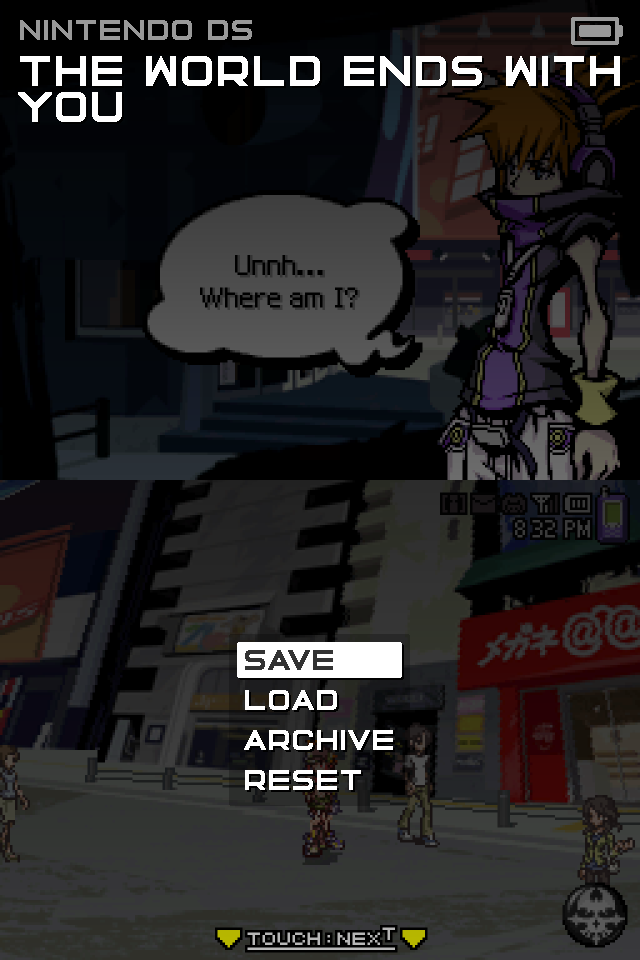
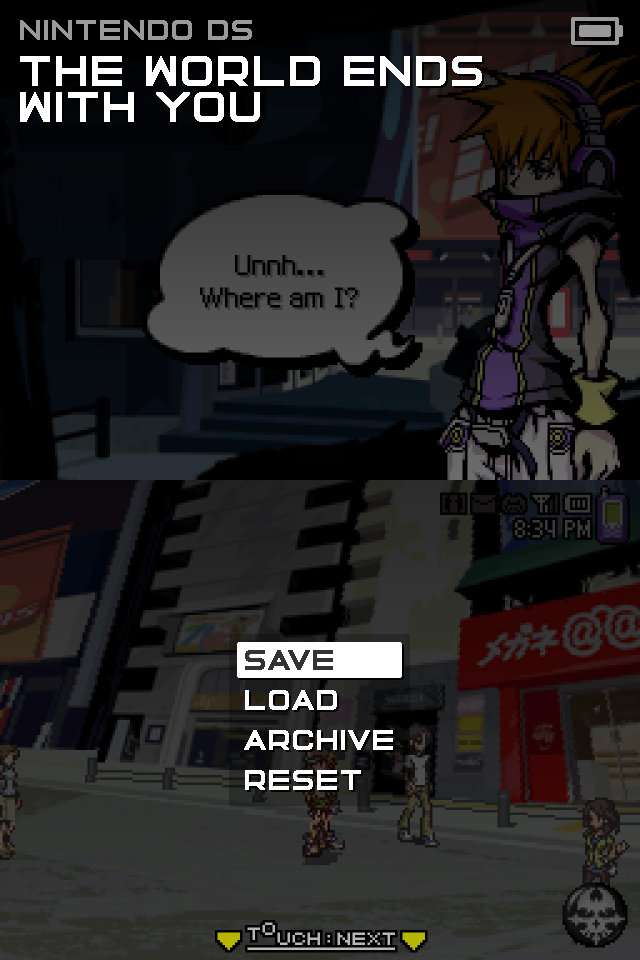
revised W

diff --git a/source/libhookdrastic/libhookdrastic.c b/source/libhookdrastic/libhookdrastic.c
@@ -801,7 +801,7 @@ Font* font36 = &(Font){
 	.charset = "ABCDEFGHIJKLMNOPQRSTUVWXYZ.-'!?&0123456789/$+%,: ",
 	.tile_width = 36,
 	.tile_height = 36,
-	.offset_x = -2,
+	.offset_x = -3,
 	.tracking = 6,
 	.char_width = 30,
 	.low_width = 24,
@@ -822,6 +822,8 @@ Font* font36 = &(Font){
 		['T']['A'] = -6,
 		['A']['V'] = -6,
 		['V']['A'] = -6,
+		['A']['W'] = -3,
+		['W']['A'] = -3,
 		['A']['Y'] = -6,
 		['Y']['A'] = -6,
 		['T']['-'] = -6,
@@ -834,7 +836,7 @@ Font* font24 = &(Font){
 	.charset = "ABCDEFGHIJKLMNOPQRSTUVWXYZ.-'!?&0123456789/$+%,: ",
 	.tile_width = 24,
 	.tile_height = 24,
-	.offset_x = -1,
+	.offset_x = -2,
 	.tracking = 4,
 	.char_width = 20,
 	.char_widths = {
@@ -854,6 +856,8 @@ Font* font24 = &(Font){
 		['T']['A'] = -4,
 		['A']['V'] = -4,
 		['V']['A'] = -4,
+		['A']['W'] = -2,
+		['W']['A'] = -2,
 		['T']['-'] = -4,
 		['-']['T'] = -4,
 	},
@@ -864,6 +868,7 @@ Font* font18 = &(Font){
 	.charset = "ABCDEFGHIJKLMNOPQRSTUVWXYZ.-'!?&0123456789/$+%,: ",
 	.tile_width = 18,
 	.tile_height = 18,
+	.offset_x = -1,
 	.tracking = 3,
 	.char_width = 15,
 	.char_widths = {
@@ -882,6 +887,8 @@ Font* font18 = &(Font){
 		['T']['A'] = -3,
 		['A']['V'] = -3,
 		['V']['A'] = -3,
+		['A']['W'] = -1,
+		['W']['A'] = -1,
 		['T']['-'] = -3,
 		['-']['T'] = -3,
 	},
@@ -892,6 +899,7 @@ Font* font16 = &(Font){
 	.charset = "ABCDEFGHIJKLMNOPQRSTUVWXYZ.-'!?&0123456789/$+%,: ",
 	.tile_width = 16,
 	.tile_height = 16,
+	.offset_x = -1,
 	.tracking = 4,
 	.char_width = 12,
 	.char_widths = {
@@ -910,6 +918,8 @@ Font* font16 = &(Font){
 		['T']['A'] = -2,
 		['A']['V'] = -2,
 		['V']['A'] = -2,
+		['A']['W'] = -1,
+		['W']['A'] = -1,
 		['T']['-'] = -2,
 		['-']['T'] = -2,
 	},
@@ -984,7 +994,7 @@ static void __Font_drawText(Font* font, const char* text, int* out_width, int* o
 			}
 		}
 	}
-	ow -= font->offset_x; // reverse pad?
+	ow -= font->offset_x * 2; // reverse pad?
 	
 	if (out_width) *out_width = ow;
 	if (out_height) *out_height = oh;
@@ -1703,7 +1713,7 @@ static int App_wrap(Font* font, char* text, int max_lines, char** lines, int* sp
 		else sprintf(test_line,"%s", word);
 	
 		Font_getTextSize(font, test_line, &line_width, NULL);
-		line_width += font->offset_x * 2;
+		// line_width += font->offset_x * 2;
 		
 		int ow = 20 + 20;
 		if (line_width<=SCREEN_WIDTH-ow) {
@@ -2905,7 +2915,8 @@ static void App_menu(void) {
 							Font_getTextSize(font24, items[i], &w, NULL);
 							if (w>mw) mw = w;
 						}
-			
+						mw += font24->offset_x;
+						
 						w = 8 + mw + 8;
 						x = (SCREEN_WIDTH - w) / 2;
 			
